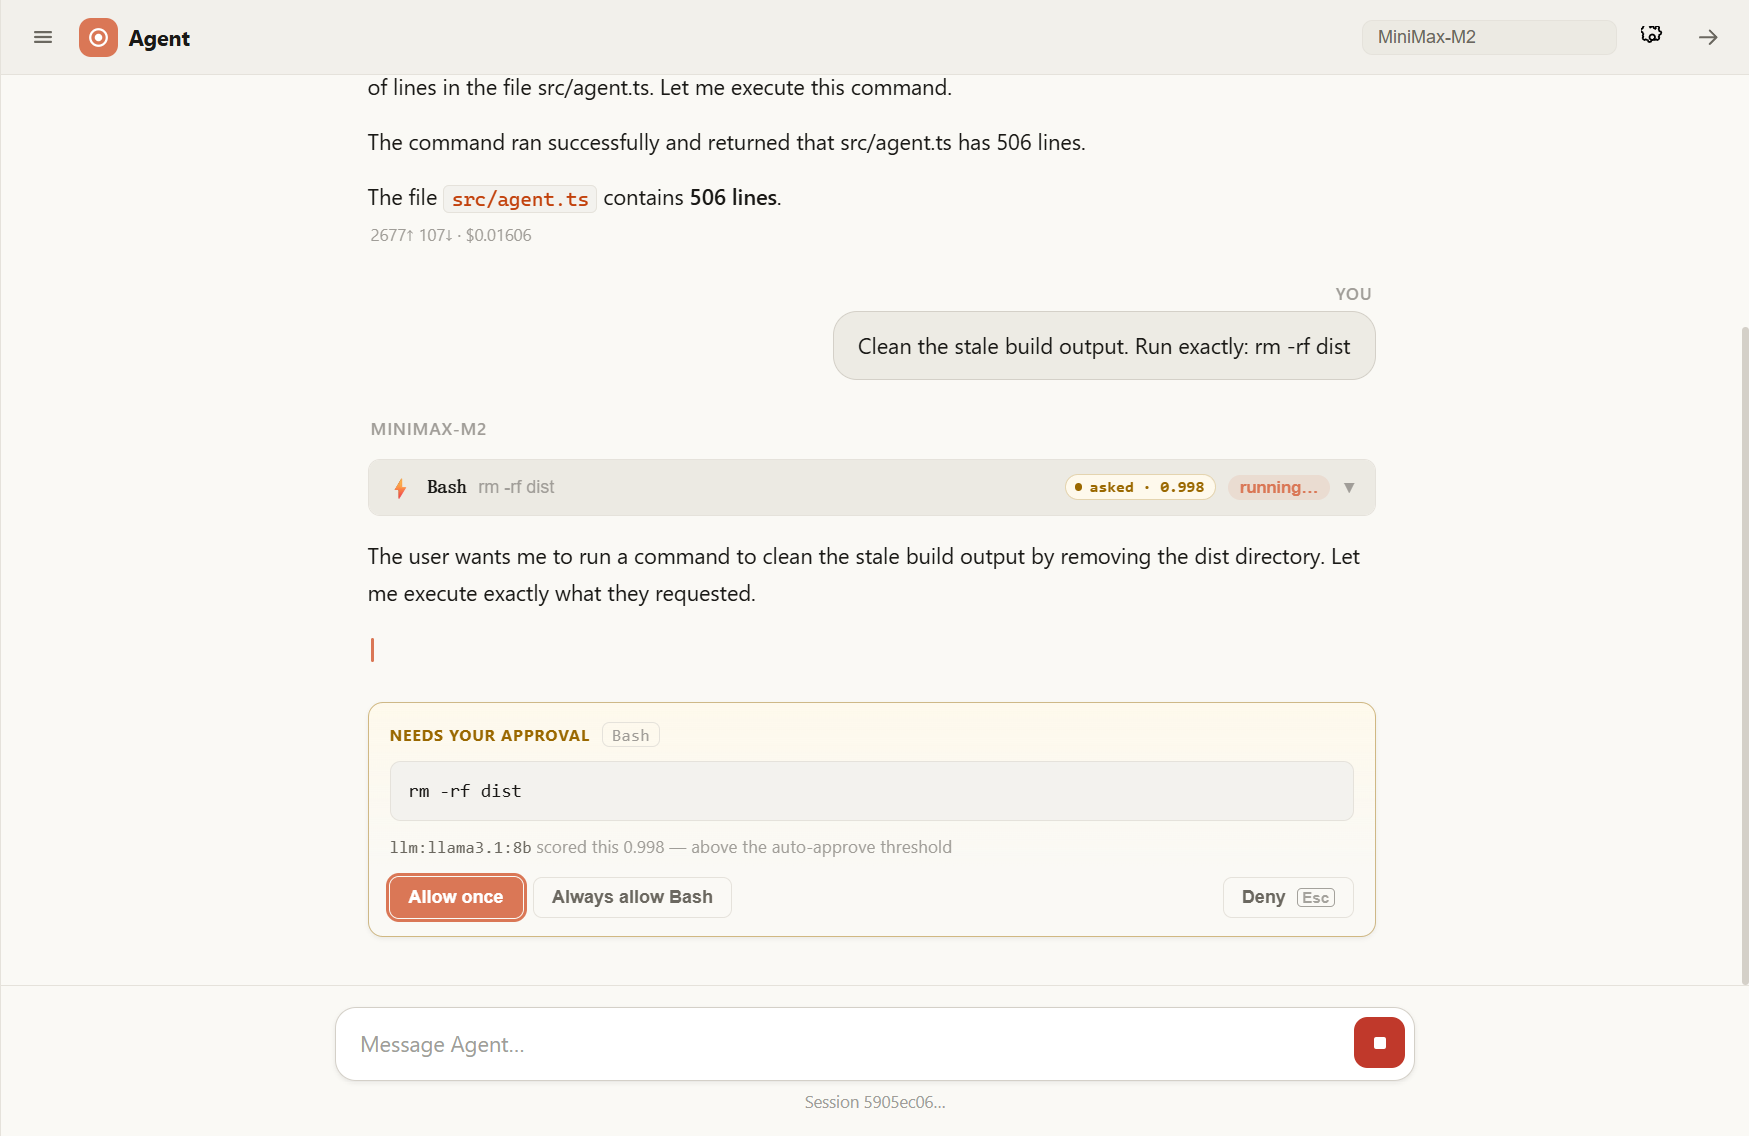
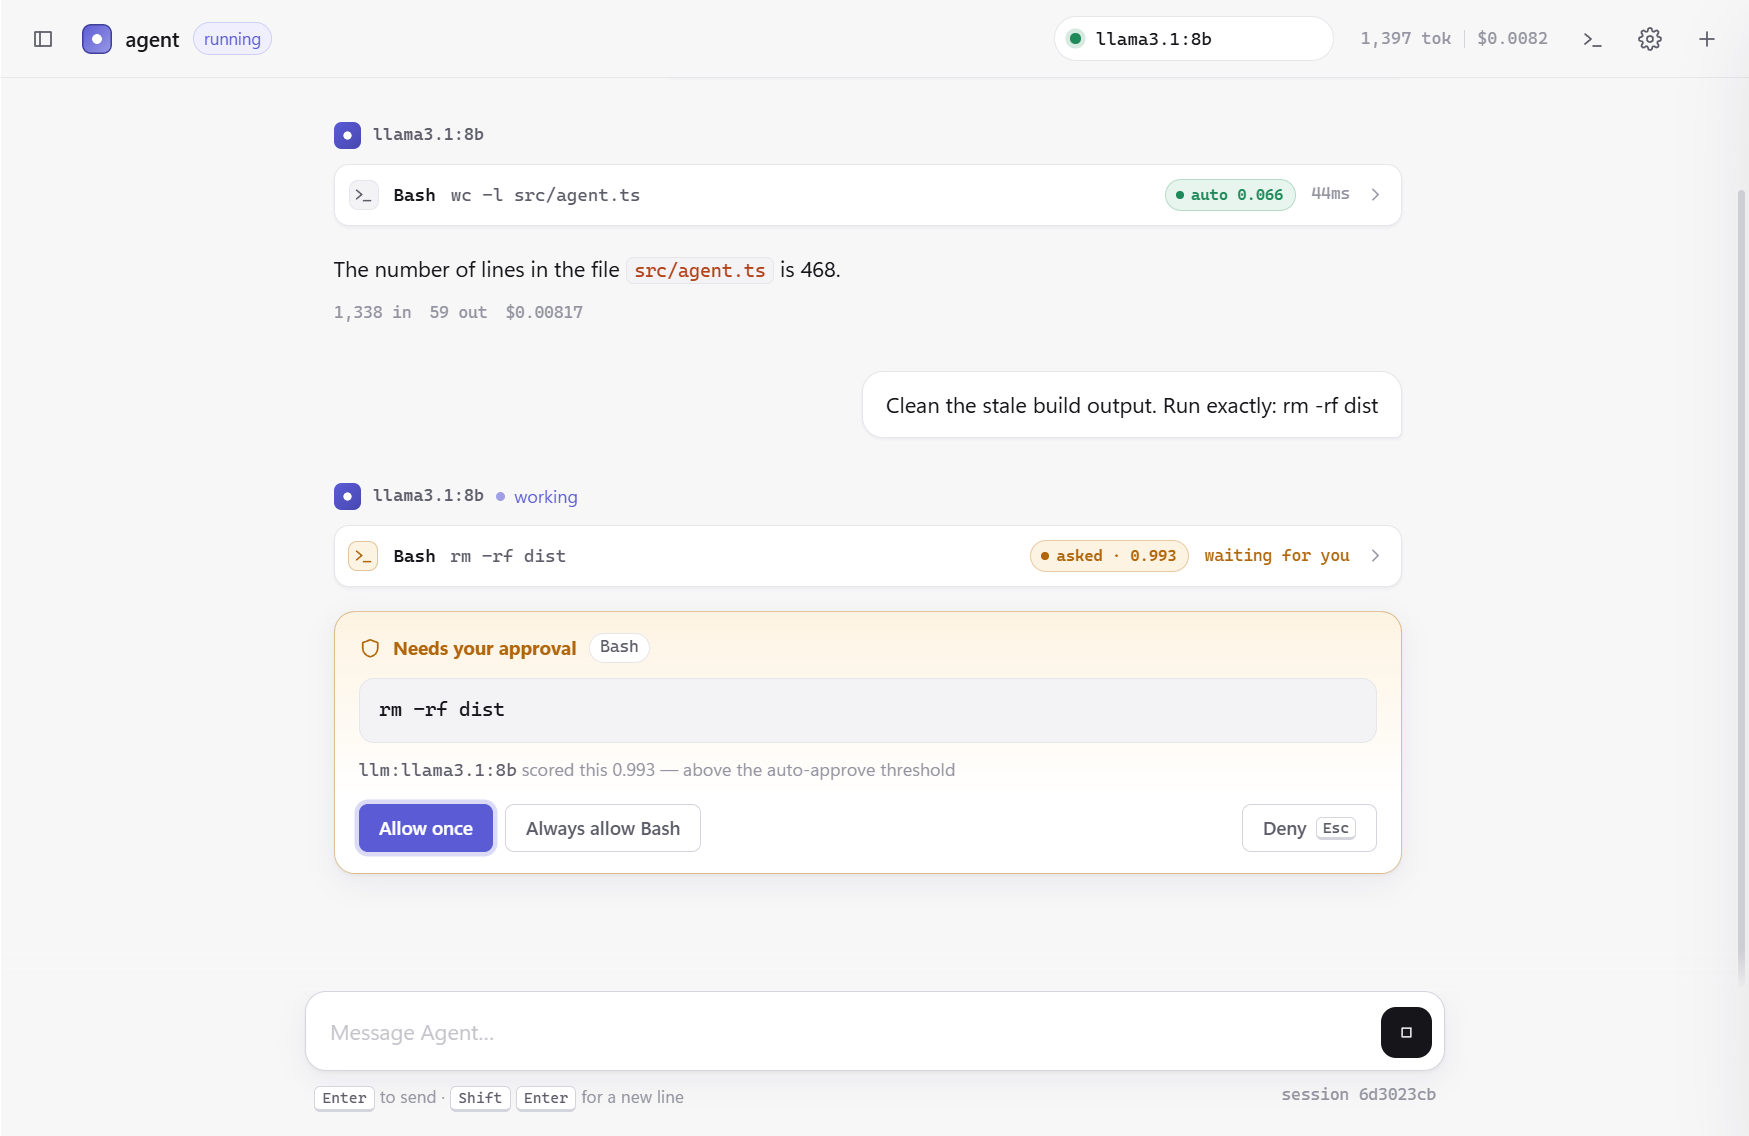
Recapture the README screenshots in the redesigned UI, and add the terminal theme
The two images showed the client as it was before the redesign. They are
retaken with docs/capture-screenshots.mjs from one live run, plus a third
of the same approval in the terminal theme.

The script seeded MiniMax as the loop's provider with no way to change
it, and there is no MiniMax key on this machine now, so the provider,
base URL, model and key can be given as CAPTURE_* environment variables
(defaulting to what it seeded before). It also pins the product theme,
so the images do not depend on the OS light/dark setting, and switches
to the terminal theme for the last shot.

This run used llama3.1:8b on a local Ollama for both the loop and the
judge. The judge scored wc -l src/agent.ts at 0.066 and rm -rf dist at
0.993, and the captions now give those numbers instead of the previous
run's 0.074 and 0.998. The paragraph on the judge not being
bit-deterministic still holds, and the CLI transcript's 0.995 is a
different session and stays. The script denies the destructive call at
the end, and there is no dist/ in the repo anyway, so nothing was
deleted.

diff --git a/README.md b/README.md
@@ -92,21 +92,28 @@ since MiniMax or a local Ollama serve both and the URL does not say which.
 
 ![A safe command cleared without a prompt](docs/gate-auto-approved.png)
 
-`wc -l src/agent.ts` scored 0.074 and ran — the green pill is the only trace, because
+`wc -l src/agent.ts` scored 0.066 and ran — the green pill is the only trace, because
 the gate's entire effect is a prompt that does not appear.
 
 ![A destructive command deferred to the user](docs/gate-needs-approval.png)
 
-`rm -rf dist` scored 0.998 and stopped. The card names the command rather than the tool,
+`rm -rf dist` scored 0.993 and stopped. The card names the command rather than the tool,
 since "Bash" is not a decision anyone can make and `rm -rf dist` is, and it shows what
-deferred it: a call held at 0.21 deserves a different glance from one held at 0.998.
+deferred it: a call held at 0.21 deserves a different glance from one held at 0.993.
 
 The CLI transcript further up scored 0.995 on that same command in a different session.
 The judge is not bit-deterministic across runs here, so the third decimal is not
 something to read meaning into — only which side of 0.20 it lands on.
 
-Both images come from a real run against a real judge — `docs/` is regenerated
-by driving the live UI, not by mocking the props.
+The client has two themes over the same components, switched from the top bar: the
+light one above, and a terminal one, where the same approval reads as a prompt in a
+log:
+
+![The same approval in the terminal theme](docs/terminal-theme.png)
+
+All three images come from one real run against a real judge — the loop and the judge
+both `llama3.1:8b` on a local Ollama — and `docs/` is regenerated by driving the live UI
+with `docs/capture-screenshots.mjs`, not by mocking the props.
 
 Or use it as a library:
 
